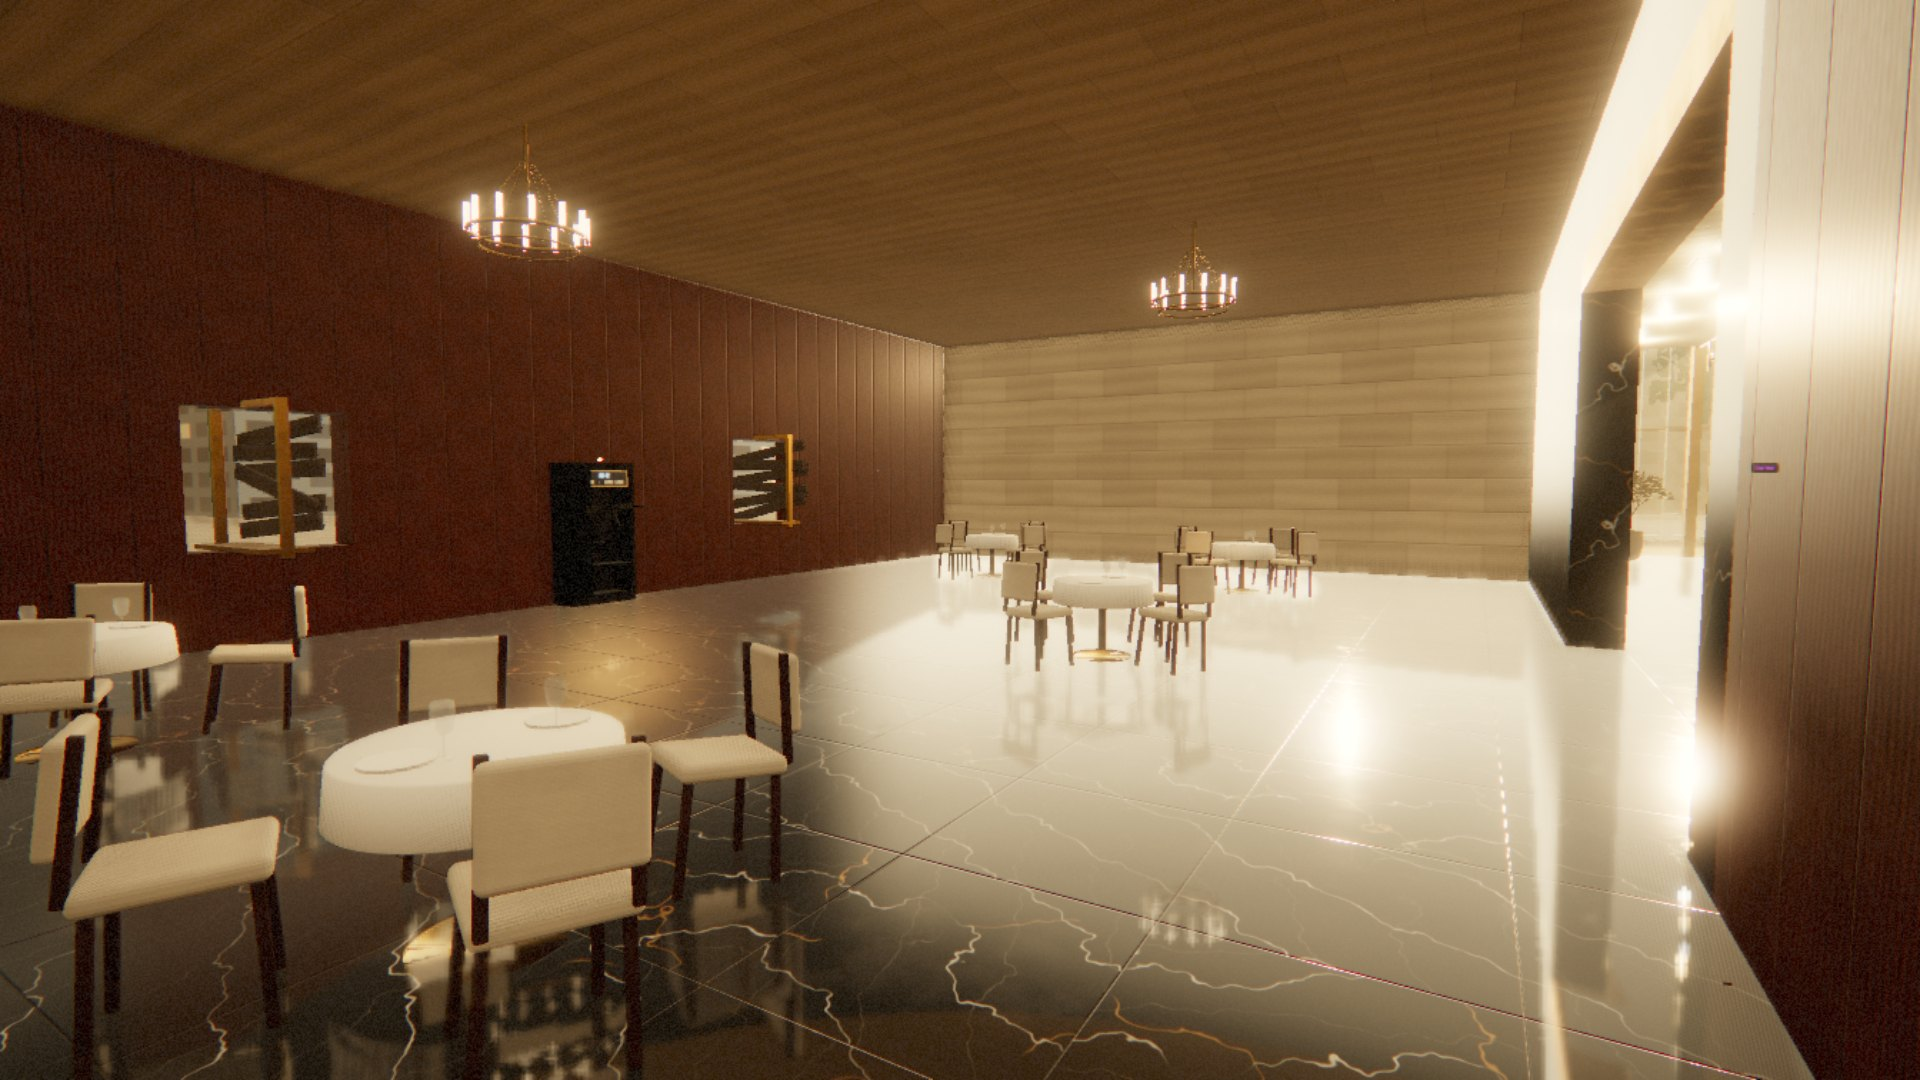
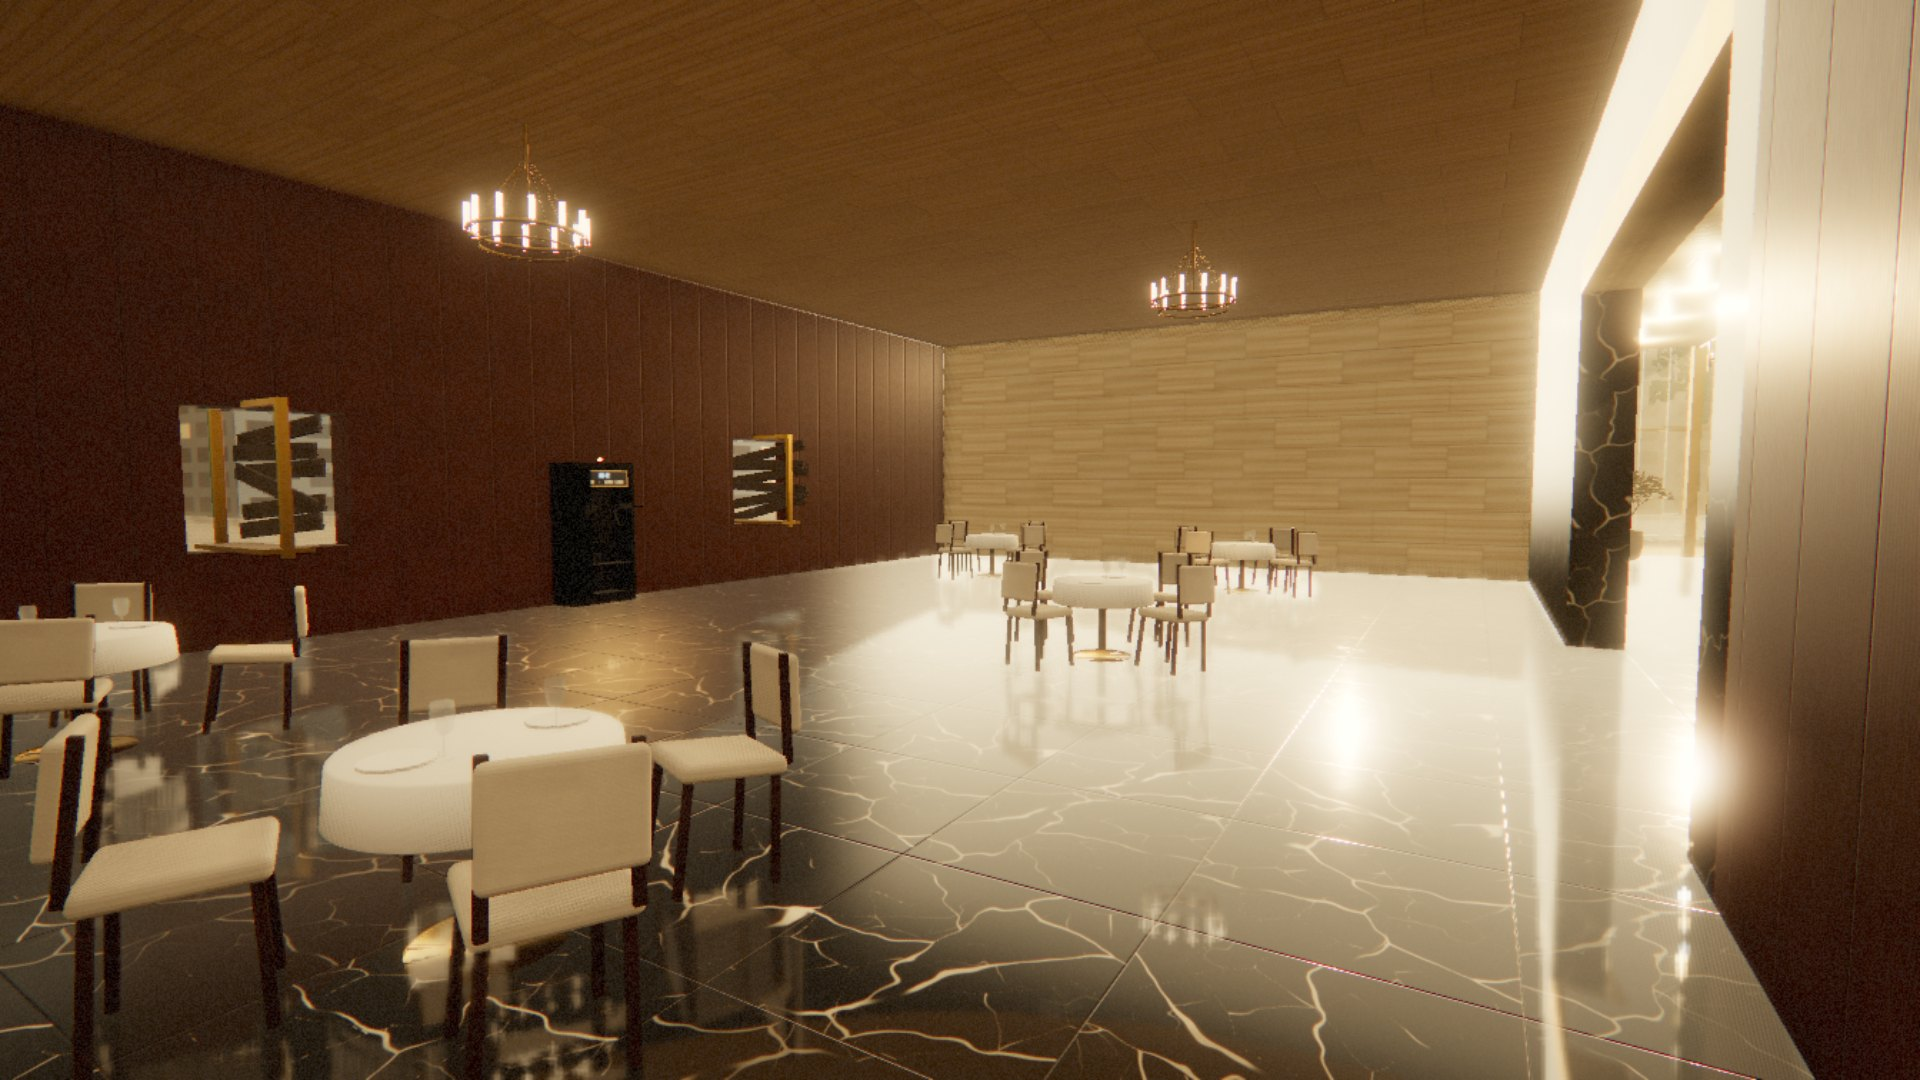
play: Last Light marble, travertine, walnut and brass closer to the reference sheet, generated 5-10x faster
Nero-style black marble with cream veins and amber edges, banded travertine, straight-grain walnut, finely
brushed brass; noise and vein fields are sampled from cached periodic grids. Screenshots and key art regenerated.

diff --git a/play/frontend/src/games/zombies/texgen.ts b/play/frontend/src/games/zombies/texgen.ts
@@ -73,6 +73,41 @@ function fbm(u: number, v: number, f: number, oct: number, s: number) {
   return sum / norm;
 }
 
+/**
+ * Cached fbm: the field is computed once on a periodic grid just fine enough for its highest octave, then sampled
+ * bilinearly. Smooth warp and cloud fields cost one lookup per pixel instead of a full fbm, which keeps the
+ * domain-warped sets (marble, travertine, walnut) fast enough for the texture workers.
+ */
+const fieldCache = new Map<number, { g: number; data: Float32Array }>();
+function cfbm(u: number, v: number, f: number, oct: number, s: number) {
+  const key = (f * 16 + oct) * 1000003 + s;
+  let fld = fieldCache.get(key);
+  if (!fld) {
+    const top = f * 2 ** (oct - 1);
+    let g = 64;
+    while (g < top * 3 && g < 512) g *= 2;
+    const data = new Float32Array(g * g);
+    for (let y = 0; y < g; y++) for (let x = 0; x < g; x++) data[y * g + x] = fbm(x / g, y / g, f, oct, s);
+    fld = { g, data };
+    fieldCache.set(key, fld);
+  }
+  const g = fld.g;
+  const x = u * g - 0.5;
+  const y = v * g - 0.5;
+  const xi = Math.floor(x);
+  const yi = Math.floor(y);
+  const fx = x - xi;
+  const fy = y - yi;
+  const x0 = wrap(xi, g);
+  const x1 = wrap(xi + 1, g);
+  const y0 = wrap(yi, g) * g;
+  const y1 = wrap(yi + 1, g) * g;
+  const d = fld.data;
+  const a = d[y0 + x0] + (d[y0 + x1] - d[y0 + x0]) * fx;
+  const b = d[y1 + x0] + (d[y1 + x1] - d[y1 + x0]) * fx;
+  return a + (b - a) * fy;
+}
+
 /** Cellular noise over the tile: distances to the nearest and second-nearest feature points (in cell units). */
 function worley(u: number, v: number, n: number, s: number): [number, number] {
   const x = u * n;
@@ -482,40 +517,72 @@ const mud: Gen = (u, v, px) => {
 // ---- hotel lobby ---------------------------------------------------------------------------------------------------
 
 /**
- * Black marble with gold and white veins. Veins follow warped sine fields (three families at different angles), so
- * they branch and thin out like real calcite; a cloudy grey body underneath.
+ * Black marble in the Nero Portoro style: a near-black body with faint warm clouds, cut by a crackle network of bold
+ * cream veins with amber halos (cell edges of domain-warped cellular noise at two scales), plus fine hair veins.
  */
-function marbleBody(u: number, v: number, px: Px, seed: number) {
-  const cloud = fbm(u, v, 3, 5, seed + 1);
-  const cloud2 = fbm(u, v, 9, 4, seed + 2);
-  px.r = 0.028 + cloud * 0.05 + cloud2 * 0.02;
-  px.g = 0.026 + cloud * 0.046 + cloud2 * 0.018;
-  px.b = 0.026 + cloud * 0.044 + cloud2 * 0.017;
-  let gold = 0;
-  let white = 0;
-  for (let k = 0; k < 3; k++) {
-    const a = 0.6 + k * 1.1 + hash(k, seed, 5) * 0.8;
-    // Each family wraps over the tile an integer number of times so the set stays seamless.
-    const f = [1, 2, 3][k];
-    const fu = Math.round(Math.cos(a) * f);
-    const fv = Math.round(Math.sin(a) * f) || 1;
-    const warp = fbm(u, v, 2 + k, 5, seed + 10 + k) * (1.3 - k * 0.25) + fbm(u, v, 10, 3, seed + 20 + k) * 0.12;
-    const s = Math.abs(Math.sin((fu * u + fv * v + warp) * Math.PI));
-    const width = [0.05, 0.06, 0.03][k] * (0.4 + fbm(u, v, 5, 3, seed + 30 + k) * 1.2);
-    // Gold runs only in some regions; the white threads are everywhere, faint in places.
-    const line = smooth(width, 0, s) * (k === 0 ? smooth(0.36, 0.58, fbm(u, v, 3, 4, seed + 40 + k)) : smooth(0.12, 0.4, fbm(u, v, 3, 4, seed + 40 + k)));
-    if (k === 0) gold = Math.max(gold, line);
-    else white = Math.max(white, line * (k === 1 ? 0.9 : 0.55));
+function veinNetRaw(u: number, v: number, n: number, warp: number, seed: number) {
+  const wu = u + (cfbm(u, v, 3, 4, seed + 1) - 0.5) * warp + (cfbm(u, v, 9, 3, seed + 2) - 0.5) * warp * 0.25;
+  const wv = v + (cfbm(u, v, 3, 4, seed + 3) - 0.5) * warp + (cfbm(u, v, 9, 3, seed + 4) - 0.5) * warp * 0.25;
+  const [f1, f2] = worley(wu - Math.floor(wu), wv - Math.floor(wv), n, seed + 5);
+  return f2 - f1;
+}
+
+/** The vein distance field, cached on a 512 grid (it is continuous, so bilinear sampling keeps the edges crisp). */
+const veinCache = new Map<number, Float32Array>();
+function veinNet(u: number, v: number, n: number, warp: number, seed: number) {
+  const g = 512;
+  const key = n * 100003 + seed;
+  let d = veinCache.get(key);
+  if (!d) {
+    d = new Float32Array(g * g);
+    for (let y = 0; y < g; y++) for (let x = 0; x < g; x++) d[y * g + x] = veinNetRaw((x + 0.5) / g, (y + 0.5) / g, n, warp, seed);
+    veinCache.set(key, d);
   }
-  // Milky clouds of calcite drifting through the black.
-  tint(px, 0.32, 0.3, 0.28, smooth(0.62, 0.8, fbm(u, v, 3, 5, seed + 50)) * 0.35);
-  tint(px, 0.16, 0.11, 0.05, smooth(0, 0.6, gold) * 0.35);
-  tint(px, 0.6, 0.44, 0.22, smooth(0.35, 0.9, gold) * 0.9);
-  // White veins with a soft milky edge.
-  tint(px, 0.45, 0.44, 0.42, smooth(0, 0.5, white) * 0.35);
-  tint(px, 0.8, 0.79, 0.75, smooth(0.3, 0.9, white) * 0.8);
-  px.h = 0.5 + cloud * 0.02;
-  px.rough = 0.05 + cloud2 * 0.05 + gold * 0.04;
+  const x = u * g - 0.5;
+  const y = v * g - 0.5;
+  const xi = Math.floor(x);
+  const yi = Math.floor(y);
+  const fx = x - xi;
+  const fy = y - yi;
+  const x0 = wrap(xi, g);
+  const x1 = wrap(xi + 1, g);
+  const y0 = wrap(yi, g) * g;
+  const y1 = wrap(yi + 1, g) * g;
+  const p = d[y0 + x0] + (d[y0 + x1] - d[y0 + x0]) * fx;
+  const q = d[y1 + x0] + (d[y1 + x1] - d[y1 + x0]) * fx;
+  return p + (q - p) * fy;
+}
+
+function marbleBody(u: number, v: number, px: Px, seed: number) {
+  const cloud = cfbm(u, v, 3, 5, seed + 1);
+  const cloud2 = cfbm(u, v, 12, 4, seed + 2);
+  px.r = 0.035 + cloud * 0.07 + cloud2 * 0.02;
+  px.g = 0.03 + cloud * 0.055 + cloud2 * 0.016;
+  px.b = 0.027 + cloud * 0.042 + cloud2 * 0.013;
+  // Bold veins: cell edges of a coarse network, widths wandering along their length; not every edge is a vein.
+  const e1 = veinNet(u, v, 3, 0.25, seed + 10);
+  const w1 = 0.007 + Math.pow(cfbm(u, v, 6, 3, seed + 20), 2) * 0.075;
+  const keep1 = smooth(0.3, 0.45, cfbm(u, v, 3, 3, seed + 21));
+  const big = smooth(w1, w1 * 0.25, e1) * keep1;
+  const halo1 = smooth(w1 * 1.8, w1 * 0.7, e1) * keep1;
+  // Secondary veins: a finer network, thinner and patchier.
+  const e2 = veinNet(u, v, 7, 0.14, seed + 30);
+  const w2 = 0.005 + Math.pow(cfbm(u, v, 8, 3, seed + 40), 2) * 0.03;
+  const keep2 = smooth(0.4, 0.56, cfbm(u, v, 4, 3, seed + 41));
+  const mid = smooth(w2, w2 * 0.2, e2) * keep2;
+  const halo2 = smooth(w2 * 1.8, w2 * 0.6, e2) * keep2;
+  // Hair veins: long warped threads.
+  const t = Math.abs(Math.sin((u * 2 + v * 3 + cfbm(u, v, 4, 5, seed + 50) * 1.6) * Math.PI));
+  const hair = smooth(0.025, 0.004, t) * smooth(0.45, 0.7, cfbm(u, v, 3, 3, seed + 51)) * 0.6;
+  const halo = Math.max(halo1, halo2 * 0.8);
+  const core = Math.max(big, mid * 0.85, hair);
+  // Amber halo bleeding into the black, then the cream calcite core with a little speckle.
+  tint(px, 0.22, 0.14, 0.06, halo * 0.3);
+  tint(px, 0.46, 0.33, 0.16, smooth(0.4, 0.9, halo) * 0.3 * (0.4 + cloud2 * 0.9));
+  const speck = hash(Math.floor(u * 300), Math.floor(v * 300), seed + 60);
+  tint(px, 0.7 + speck * 0.06, 0.67 + speck * 0.05, 0.6 + speck * 0.04, smooth(0.2, 0.8, core) * 0.92);
+  px.h = 0.5 + cloud * 0.02 - core * 0.01;
+  px.rough = 0.05 + cloud2 * 0.05 + core * 0.06;
   px.metal = 0;
 }
 
@@ -530,7 +597,10 @@ const marbleFloor: Gen = (u, v, px) => {
   const id = hash(ix, iy, 61);
   const turn = Math.floor(id * 4);
   const [ru, rv] = turn === 0 ? [lx, ly] : turn === 1 ? [ly, 1 - lx] : turn === 2 ? [1 - lx, 1 - ly] : [1 - ly, lx];
-  marbleBody(ru, rv, px, 100 + Math.floor(id * 7) * 17);
+  // One shared vein field; each tile is cut from a different part of it (cheap, and no two tiles match).
+  const ou = hash(ix, iy, 65);
+  const ov = hash(ix, iy, 66);
+  marbleBody((ru * 0.6 + ou) % 1, (rv * 0.6 + ov) % 1, px, 100);
   shade(px, 0.85 + hash(ix, iy, 62) * 0.3);
   const e = Math.min(lx, 1 - lx, ly, 1 - ly) * 1.2;
   const joint = smooth(0.0035, 0.001, e);
@@ -538,55 +608,67 @@ const marbleFloor: Gen = (u, v, px) => {
   px.h -= joint * 0.25;
   px.rough = Math.max(px.rough, joint * 0.6);
   // Faint scuffs where the polish has worn.
-  const scuff = smooth(0.7, 0.85, fbm(u, v, 18, 3, 63)) * smooth(0.55, 0.8, fbm(u, v, 3, 3, 64));
+  const scuff = smooth(0.7, 0.85, cfbm(u, v, 18, 3, 63)) * smooth(0.55, 0.8, cfbm(u, v, 3, 3, 64));
   px.rough += scuff * 0.1;
 };
 
 const marbleSlab: Gen = (u, v, px) => marbleBody(u, v, px, 300);
 
-/** Cream travertine: horizontal bedding, long open pores, slabs 1.2 x 0.6 m in running bond with fine joints. */
+/** Cream travertine: horizontal bedding with tan and brown streaks, long open pores, 1.2 x 0.6 m slabs in running bond. */
 const travertine: Gen = (u, v, px) => {
-  const band = fbm(u, v, 2, 3, 72) * 0.4 + (0.5 + 0.5 * Math.sin((v * 7 + fbm(u, v, 2, 4, 71) * 0.35) * Math.PI * 2)) * 0.6;
-  const streak = 0.5 + 0.5 * Math.sin((v * 46 + fbm(u, v, 3, 3, 73) * 0.6) * Math.PI * 2);
-  px.r = 0.8 + band * 0.08 - streak * 0.03;
-  px.g = 0.75 + band * 0.075 - streak * 0.032;
-  px.b = 0.66 + band * 0.07 - streak * 0.035;
-  // Pores: cellular holes squashed along the bedding.
-  const [f1] = worley(u, v, 40, 74);
-  const pore = smooth(0.1, 0.04, f1) * smooth(0.5, 0.72, fbm(u, v, 7, 3, 75)) * smooth(0.3, 0.6, vnoise(u * 160, v * 40, 160, 77));
-  shade(px, 1 - pore * 0.18);
-  tint(px, 0.62, 0.52, 0.38, pore * 0.15);
-  px.h = 0.6 + band * 0.05 - pore * 0.35;
-  px.rough = 0.4 + band * 0.12 + pore * 0.3;
-  px.metal = 0;
   const ry = v * 4;
   const row = Math.floor(ry);
   const rx = u * 2 + (row % 2 ? 0.5 : 0);
+  const slab = hash(wrap(Math.floor(rx), 2), row, 76);
+  // Bedding: wavy horizontal layers; each slab is cut from a different part of the block.
+  const bed = v * 9 + slab * 3.7 + cfbm(u, v, 2, 4, 71) * 0.25 + cfbm(u, v, 8, 3, 70) * 0.03;
+  const band = 0.5 + 0.5 * Math.sin(bed * Math.PI * 2);
+  const fineBed = v * 21 + slab * 5 + cfbm(u, v, 2, 4, 73) * 0.22;
+  const streak = smooth(0.8, 0.97, 0.5 + 0.5 * Math.sin(fineBed * Math.PI * 2)) * smooth(0.3, 0.7, cfbm(u * 0.5, v, 3, 3, 72));
+  const thread = smooth(0.975, 0.999, 0.5 + 0.5 * Math.sin((v * 70 + cfbm(u, v, 3, 3, 78) * 0.3) * Math.PI * 2)) * smooth(0.5, 0.7, cfbm(u, v, 6, 3, 79));
+  px.r = 0.88 - band * 0.05;
+  px.g = 0.82 - band * 0.06;
+  px.b = 0.7 - band * 0.075;
+  tint(px, 0.74, 0.62, 0.46, streak * 0.45);
+  tint(px, 0.56, 0.44, 0.31, thread * 0.4);
+  // Pores: small holes squashed along the bedding, clustered in some layers.
+  const [f1] = worley(u, v, 48, 74);
+  const pore = smooth(0.14, 0.06, f1) * smooth(0.45, 0.7, cfbm(u, v, 7, 3, 75)) * smooth(0.45, 0.75, vnoise(u * 256, v * 24, 256, 77));
+  shade(px, 1 - pore * 0.3);
+  tint(px, 0.55, 0.45, 0.33, pore * 0.25);
+  px.h = 0.6 + band * 0.03 - pore * 0.4;
+  px.rough = 0.36 + band * 0.08 + pore * 0.35;
+  px.metal = 0;
   const lx = rx - Math.floor(rx);
   const ly = ry - row;
   const e = Math.min(lx * 1.2, (1 - lx) * 1.2, ly * 0.6, (1 - ly) * 0.6);
   const joint = smooth(0.004, 0.0012, e);
-  shade(px, 1 - joint * 0.35);
+  shade(px, 1 - joint * 0.4);
   px.h -= joint * 0.3;
-  shade(px, 0.94 + hash(wrap(Math.floor(rx), 2), row, 76) * 0.1);
+  shade(px, 0.95 + slab * 0.08);
 };
 
-/** Book-matched walnut panels, 0.6 m wide, lacquered, with a dark reveal between them. */
+/** Book-matched walnut panels, 0.6 m wide: straight vertical grain with a soft cathedral figure, satin lacquer. */
 const walnut: Gen = (u, v, px) => {
   const cx = u * 2;
   const col = Math.floor(cx);
   let lx = cx - col;
   if (col % 2) lx = 1 - lx;
-  const warp = fbm(lx * 0.5, v, 2, 4, 81) * 0.9;
-  const ring = 0.5 + 0.5 * Math.sin((lx * 14 + warp * 2.2 + Math.sin(v * Math.PI * 2) * 0.25) * Math.PI * 2);
-  const fine = vnoise(u * 900, v * 30, 900, 82);
-  const figure = fbm(u, v, 5, 4, 83);
-  px.r = 0.3 + ring * 0.09 + figure * 0.07;
-  px.g = 0.17 + ring * 0.055 + figure * 0.04;
-  px.b = 0.09 + ring * 0.03 + figure * 0.025;
-  shade(px, 0.82 + fine * 0.3);
-  px.h = 0.55 + ring * 0.03 + fine * 0.02;
-  px.rough = 0.26 + fine * 0.12;
+  // Mostly straight growth rings, gently drifting; a cathedral arch in the middle of each leaf.
+  const drift = cfbm(lx * 0.5, v, 2, 4, 81) * 0.35;
+  const arch = Math.max(0, 1 - Math.abs(lx - 0.5) * 3.2) * 0.18 * Math.sin(v * Math.PI * 4 + 1);
+  const g = lx * 26 + drift * 2 + arch * 6;
+  const ring = Math.pow(0.5 + 0.5 * Math.sin(g * Math.PI * 2), 3);
+  const late = Math.pow(0.5 + 0.5 * Math.sin(g * Math.PI * 6 + 1), 6);
+  const fine = vnoise(u * 1400, v * 22, 1400, 82);
+  const figure = cfbm(u, v, 4, 4, 83);
+  const ray = smooth(0.85, 0.98, vnoise(u * 60, v * 900, 60, 84)) * 0.25;
+  px.r = 0.36 - ring * 0.13 - late * 0.04 + figure * 0.06;
+  px.g = 0.22 - ring * 0.09 - late * 0.03 + figure * 0.035;
+  px.b = 0.13 - ring * 0.06 - late * 0.02 + figure * 0.02;
+  shade(px, 0.88 + fine * 0.2 + ray * 0.3);
+  px.h = 0.55 - ring * 0.02 + fine * 0.015;
+  px.rough = 0.3 + fine * 0.1 + ring * 0.05;
   px.metal = 0;
   const e = Math.min(lx, 1 - lx) * 0.6;
   const reveal = smooth(0.006, 0.002, e);
@@ -595,16 +677,15 @@ const walnut: Gen = (u, v, px) => {
   px.rough = Math.max(px.rough, reveal * 0.7);
 };
 
-/** Brushed brass: fine horizontal brushing, gentle tarnish clouds. */
+/** Brushed brass: fine brushing streaks along u, warm gold, faint polish variation (no blotchy tarnish). */
 const brass: Gen = (u, v, px) => {
-  const brush = vnoise(u * 4, v * 700, 4, 91) * 0.6 + vnoise(u * 16, v * 1400, 16, 92) * 0.4;
-  const tarnish = smooth(0.55, 0.8, fbm(u, v, 3, 4, 93));
-  px.r = 0.92 - brush * 0.08;
-  px.g = 0.7 - brush * 0.07;
-  px.b = 0.38 - brush * 0.05;
-  tint(px, 0.55, 0.42, 0.24, tarnish * 0.35);
-  px.h = 0.5 + brush * 0.04;
-  px.rough = 0.2 + brush * 0.12 + tarnish * 0.12;
+  const brush = vnoise(u * 3, v * 900, 3, 91) * 0.55 + vnoise(u * 12, v * 2200, 12, 92) * 0.45;
+  const polish = fbm(u, v, 2, 3, 93);
+  px.r = 0.95 - brush * 0.06;
+  px.g = 0.74 - brush * 0.06 + polish * 0.02;
+  px.b = 0.4 - brush * 0.05;
+  px.h = 0.5 + brush * 0.03;
+  px.rough = 0.16 + brush * 0.1 + (1 - polish) * 0.06;
   px.metal = 1;
 };
 
